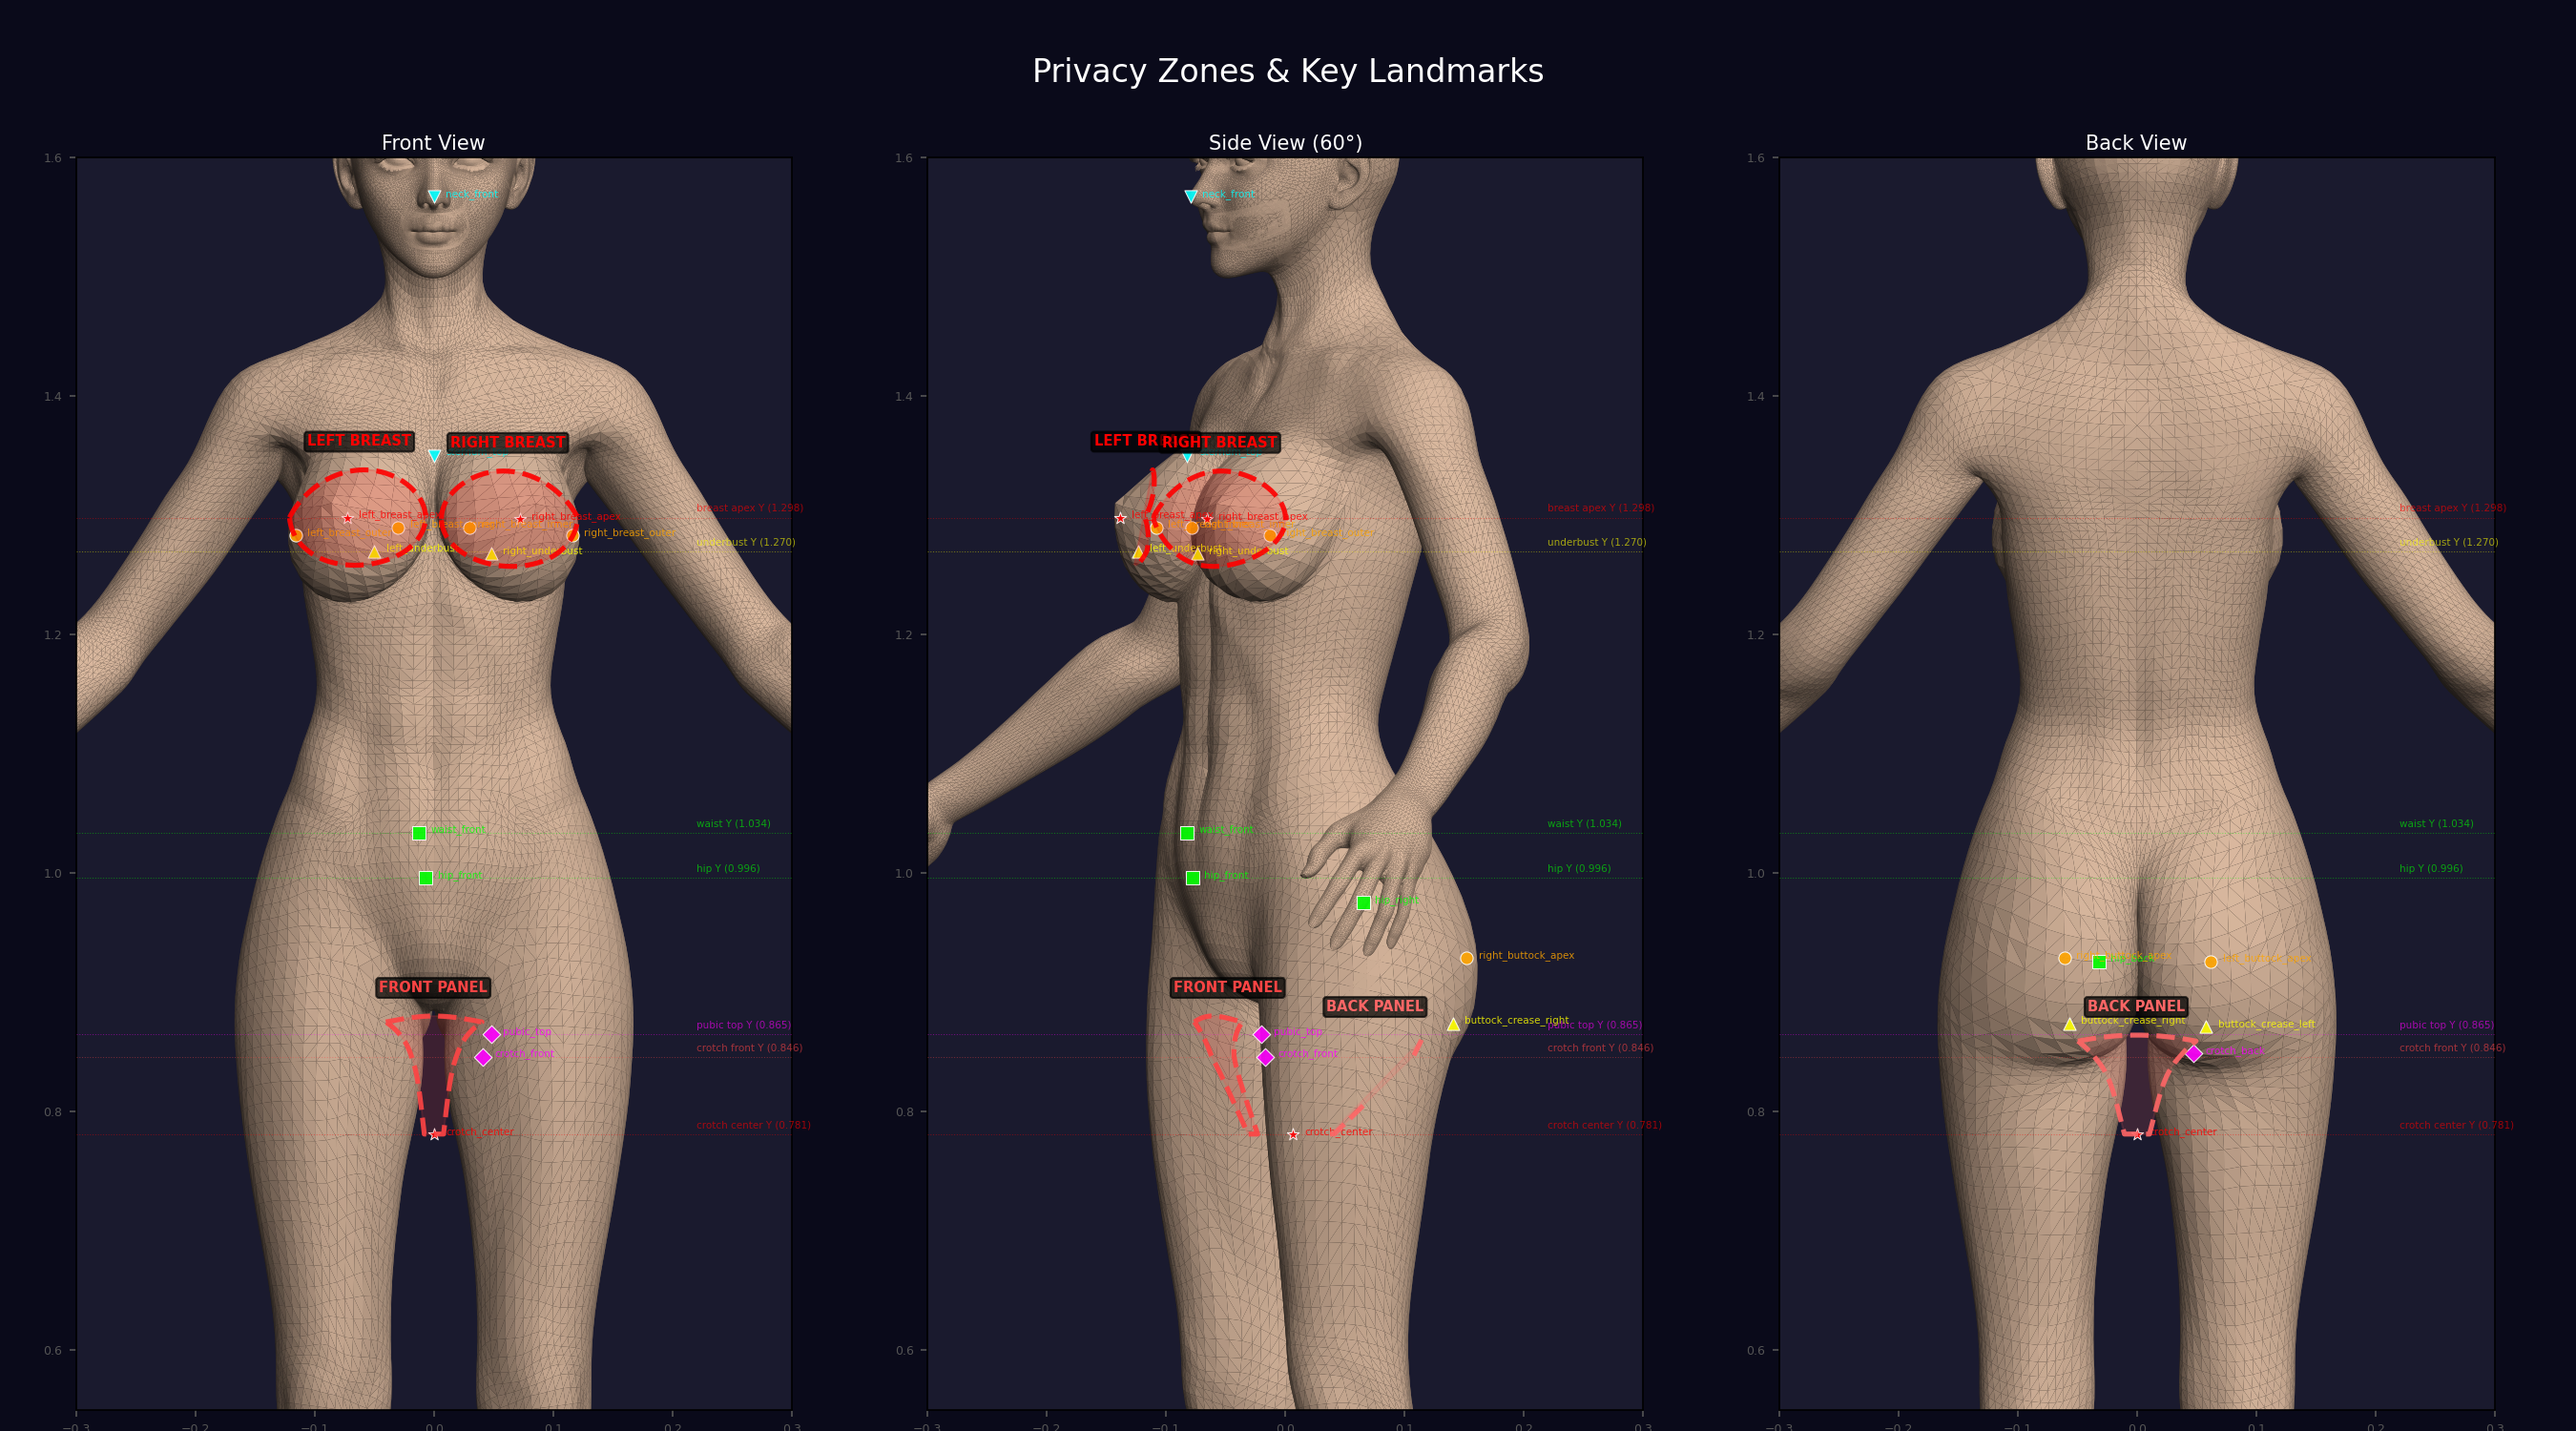
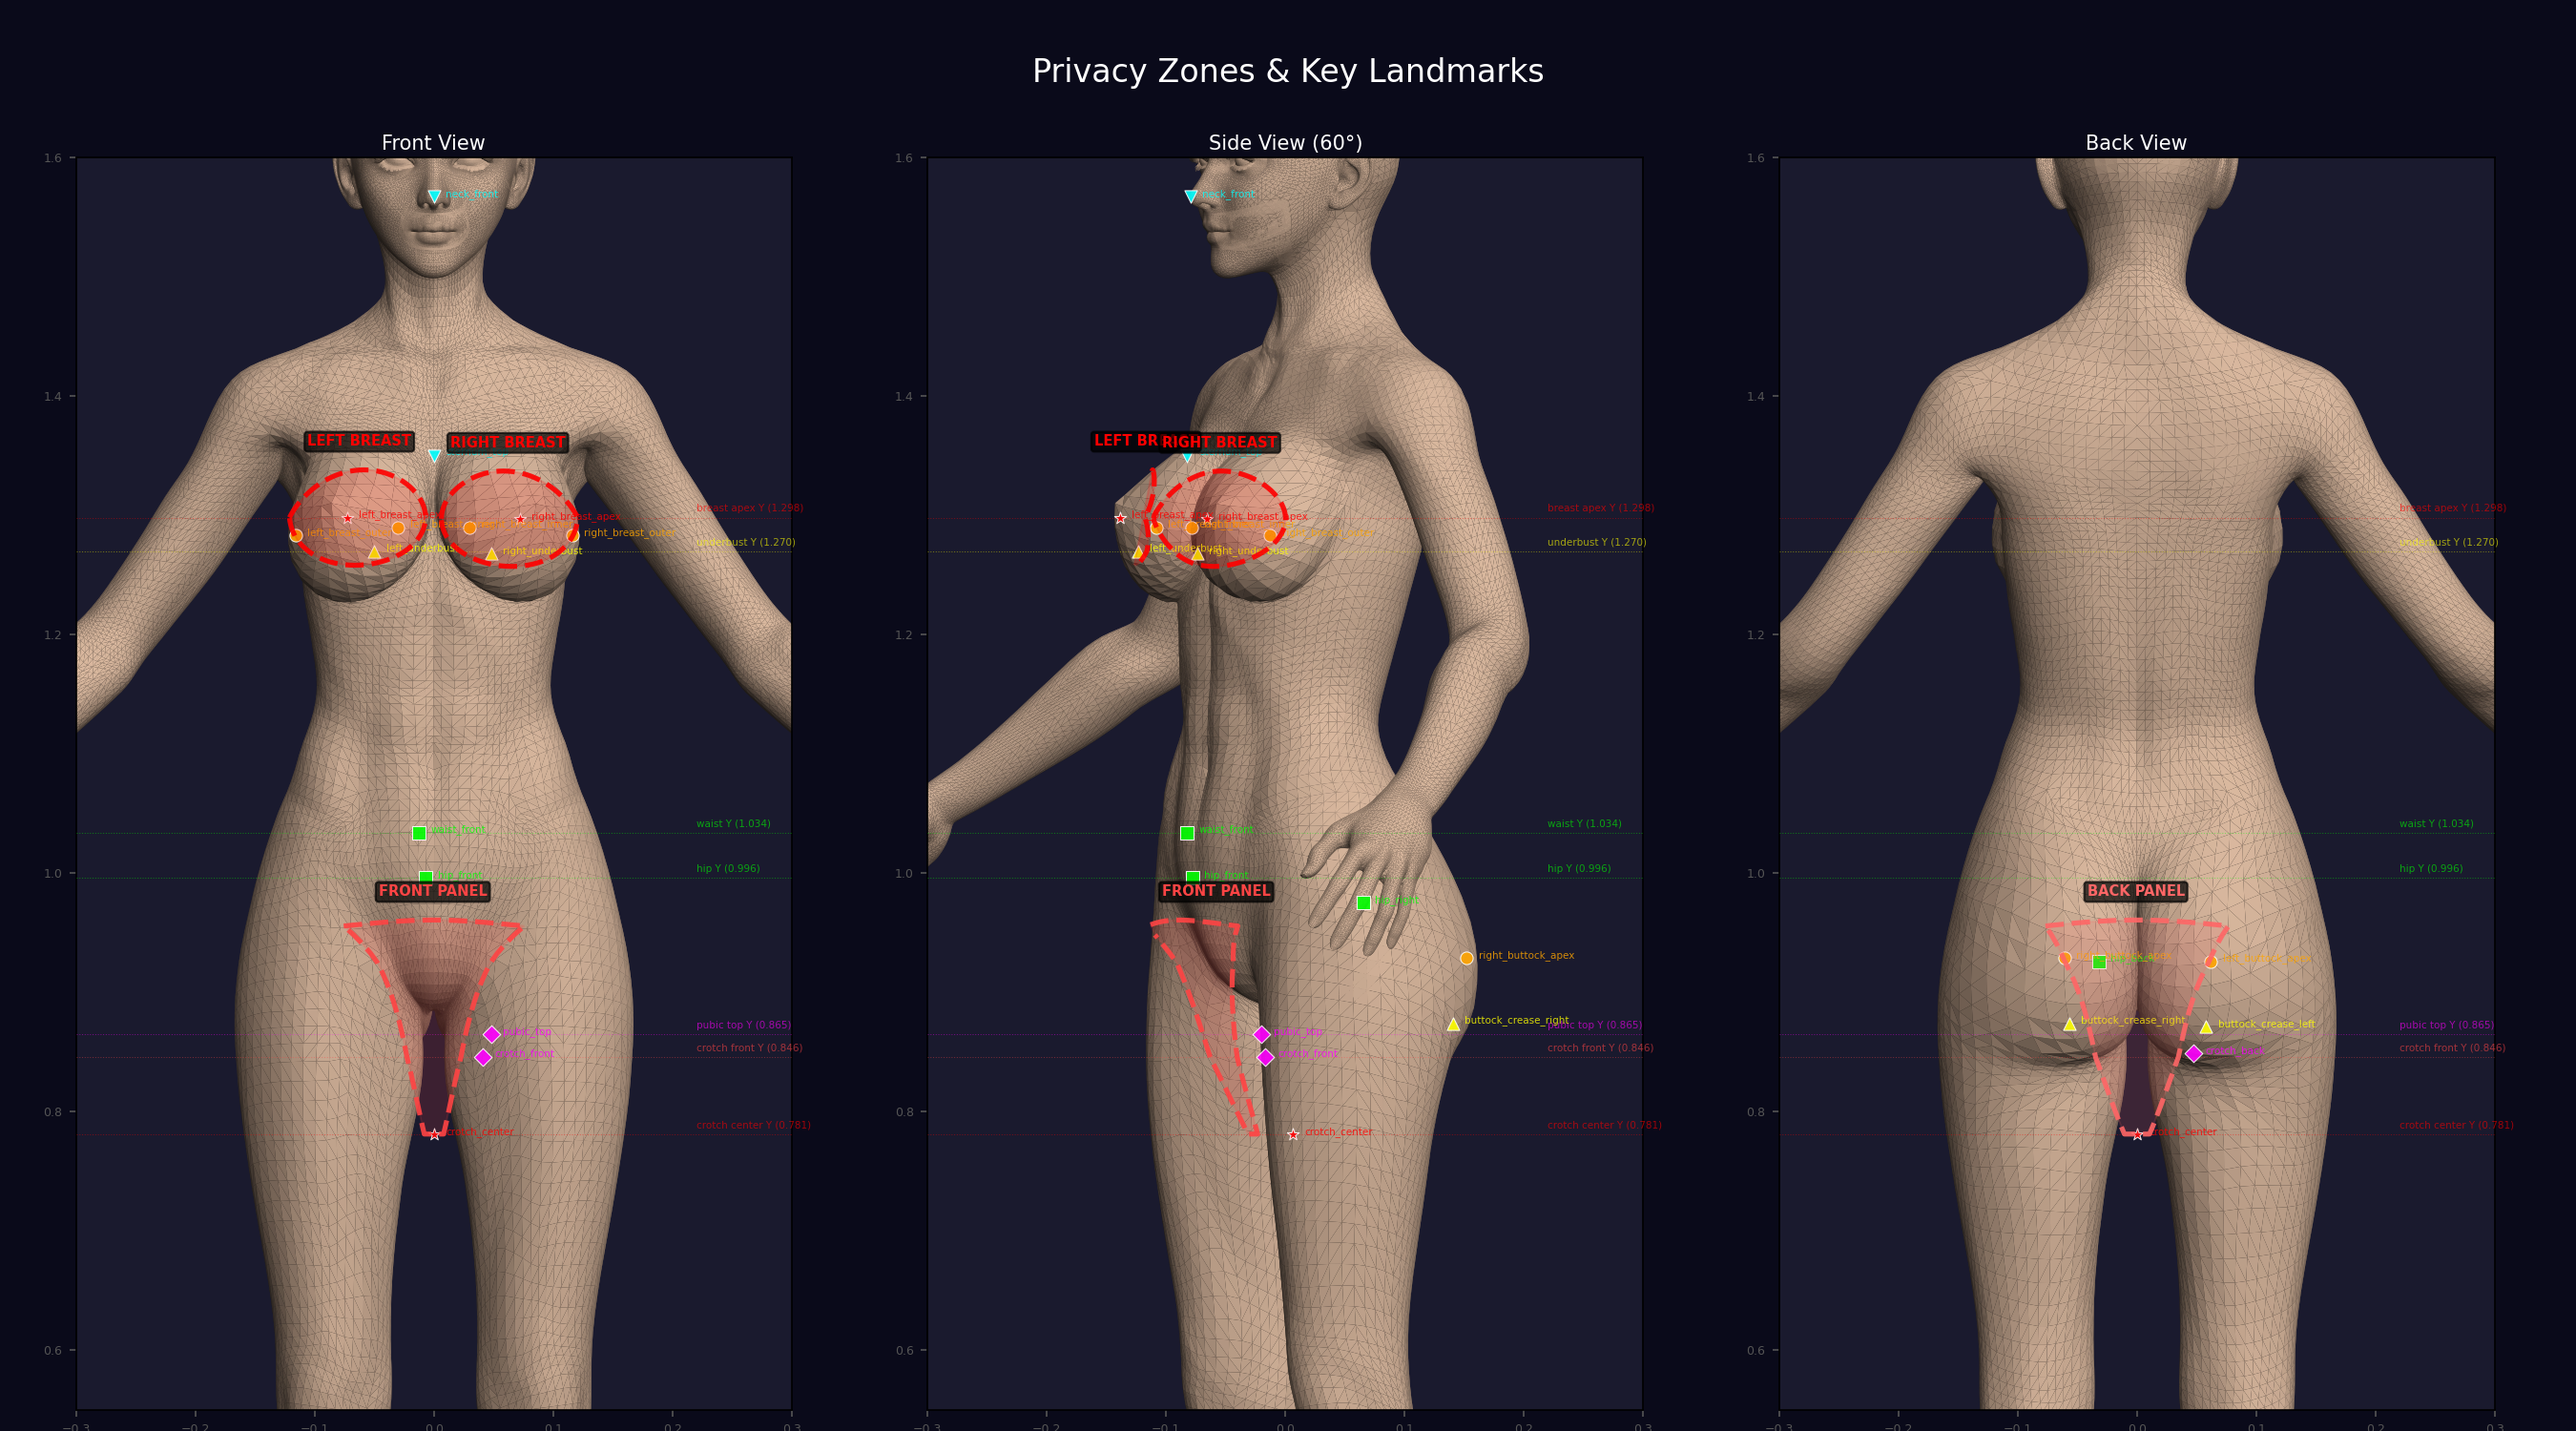
fix: move bikini bottom panels up to hip level (~8cm higher)
Top edge now at hip line (Y=0.956) instead of pubic_top (Y=0.875).
Total panel height ~17.5cm matching real bikini proportions.
Front and back panels both extend from hip level to crotch center.

https://claude.ai/code/session_01CGx4kTKQHwBokzENgDgNYu

diff --git a/debug_privacy_zones.py b/debug_privacy_zones.py
@@ -112,7 +112,10 @@ def make_bikini_front_panel(lm):
     """Create bikini front panel shape in (Y, theta) body surface coords.
 
     Shape: inverted triangle / shield with concave leg scoops.
-    The fabric sits flush on skin surface (no gap).
+    The fabric sits flush on skin surface.
+
+    Real bikini bottom: top edge at hip level (~navel area),
+    bottom at crotch. Total height ~18-20cm.
 
     Coordinate system:
       Y = height (meters), theta = angle around body
@@ -120,86 +123,80 @@ def make_bikini_front_panel(lm):
 
     Returns: list of (y, theta) tuples forming a closed curve.
     """
-    # Key Y heights from landmarks
-    pubic_top_y = lm["pubic_top"][1]      # 0.865
-    crotch_front_y = lm["crotch_front"][1]  # 0.846
+    # Key Y heights
+    hip_y = lm["hip_front"][1]              # 0.996
+    hip_side_y = (lm["hip_left"][1] + lm["hip_right"][1]) / 2  # 0.976
     crotch_center_y = lm["crotch_center"][1]  # 0.781
 
-    # Top of panel: ~1cm above pubic_top (bikini line)
-    top_y = pubic_top_y + 0.01  # 0.875
+    # Top of panel: at hip level (low-rise bikini sits ~2cm below hip bone)
+    top_y = hip_side_y - 0.02  # ~0.956
 
-    # Bottom of panel: at crotch_center (between legs, no gap)
+    # Bottom: at crotch center (flush, no gap)
     bottom_y = crotch_center_y  # 0.781
 
-    # Width at top: ~7cm each side = 14cm total (classic bikini)
-    # On the body surface at this height, 1cm ~ some angle in theta
-    # Body radius at front ~0.09m, so 7cm = 0.07m, angle ~ 0.07/0.09 ~ 0.78 rad
-    # But this is too wide. For a small bikini: ~5cm each side
-    body_r_top = 0.09  # approximate front body radius at pubic height
-    half_width_top = 0.05  # 5cm each side
-    theta_half_top = half_width_top / body_r_top  # ~0.56 rad (~32 degrees)
+    # Width at top (hip level): ~7cm each side = 14cm total
+    body_r_top = 0.10  # body radius at hip height
+    half_width_top = 0.07  # 7cm each side
+    theta_half_top = half_width_top / body_r_top  # ~0.7 rad (~40 degrees)
 
     # Width at bottom (crotch): ~1.5cm each side = 3cm total
     body_r_bottom = 0.06
     half_width_bottom = 0.015
     theta_half_bottom = half_width_bottom / body_r_bottom  # ~0.25 rad
 
-    # Build the outline clockwise from top-left:
-    # Top edge: slight upward bow at center
-    top_bow = 0.005  # 5mm upward bow at center
+    # Build outline clockwise from top-left
+    top_bow = 0.005
     n_top = 15
     outline = []
 
     # 1. Top edge: left to right with slight upward bow
     for i in range(n_top + 1):
-        frac = i / n_top  # 0 to 1, left to right
-        theta = theta_half_top * (1 - 2 * frac)  # +half to -half
-        bow = top_bow * np.sin(np.pi * frac)  # parabolic bow
-        y = top_y + bow
-        outline.append((y, theta))
+        frac = i / n_top
+        theta = theta_half_top * (1 - 2 * frac)
+        bow = top_bow * np.sin(np.pi * frac)
+        outline.append((top_y + bow, theta))
 
     # 2. Right side: concave leg scoop from top-right down to bottom-right
-    #    Bezier: top-right -> scoop inward -> bottom-right
-    p0 = (top_y, -theta_half_top)           # top-right corner
-    p3 = (bottom_y, -theta_half_bottom)      # bottom-right (crotch)
-    # Control points create concave scoop (pulled inward toward center)
-    mid_y = (top_y + bottom_y) / 2
-    scoop_depth = theta_half_top * 0.6  # how deep the leg scoop cuts in
-    p1 = (top_y - 0.02, -theta_half_top + scoop_depth)  # pull inward near top
-    p2 = (mid_y, -theta_half_bottom)  # narrow already at midpoint
-    outline.extend(cubic_bezier(p0, p1, p2, p3, n=20)[1:])  # skip first (duplicate)
+    #    The scoop is deepest around upper-thigh / pubic area
+    p0 = (top_y, -theta_half_top)
+    p3 = (bottom_y, -theta_half_bottom)
+    # Leg scoop: the side curves inward aggressively
+    scoop_y = top_y - (top_y - bottom_y) * 0.35  # scoop deepest at ~35% down
+    scoop_depth = theta_half_top * 0.55
+    p1 = (scoop_y, -theta_half_top + scoop_depth)  # pull inward
+    p2 = (bottom_y + 0.03, -theta_half_bottom * 1.5)  # approach crotch width
+    outline.extend(cubic_bezier(p0, p1, p2, p3, n=25)[1:])
 
-    # 3. Bottom edge: right to left across crotch (flush, no gap)
+    # 3. Bottom edge: across crotch (flush)
     n_bottom = 5
     for i in range(n_bottom + 1):
         frac = i / n_bottom
         theta = -theta_half_bottom + 2 * theta_half_bottom * frac
         outline.append((bottom_y, theta))
 
-    # 4. Left side: concave leg scoop from bottom-left up to top-left (mirror)
-    p0 = (bottom_y, theta_half_bottom)      # bottom-left
-    p3 = (top_y, theta_half_top)            # top-left corner
-    p1 = (mid_y, theta_half_bottom)
-    p2 = (top_y - 0.02, theta_half_top - scoop_depth)
-    outline.extend(cubic_bezier(p0, p1, p2, p3, n=20)[1:])
+    # 4. Left side: mirror of right
+    p0 = (bottom_y, theta_half_bottom)
+    p3 = (top_y, theta_half_top)
+    p1 = (bottom_y + 0.03, theta_half_bottom * 1.5)
+    p2 = (scoop_y, theta_half_top - scoop_depth)
+    outline.extend(cubic_bezier(p0, p1, p2, p3, n=25)[1:])
 
     return outline
 
 
 def make_bikini_back_panel(lm):
-    """Create bikini back panel shape (thong/minimal back piece).
+    """Create bikini back panel shape.
 
-    Similar inverted triangle but centered at theta=pi (back).
+    Similar inverted triangle at theta=pi (back), from hip level to crotch.
     """
-    buttock_y = (lm["buttock_crease_left"][1] + lm["buttock_crease_right"][1]) / 2
-    crotch_back_y = lm["crotch_back"][1]  # 0.849
-    crotch_center_y = lm["crotch_center"][1]  # 0.781
+    hip_side_y = (lm["hip_left"][1] + lm["hip_right"][1]) / 2
+    crotch_center_y = lm["crotch_center"][1]
 
-    top_y = crotch_back_y + 0.01  # 0.859
+    top_y = hip_side_y - 0.02  # same height as front
     bottom_y = crotch_center_y
 
-    body_r_top = 0.10
-    half_width_top = 0.045
+    body_r_top = 0.12
+    half_width_top = 0.065  # slightly narrower than front
     theta_half_top = half_width_top / body_r_top
 
     body_r_bottom = 0.06
@@ -210,7 +207,7 @@ def make_bikini_back_panel(lm):
     n_top = 15
     outline = []
 
-    # Top edge (at back: theta around pi)
+    # Top edge at back
     for i in range(n_top + 1):
         frac = i / n_top
         theta = np.pi + theta_half_top * (1 - 2 * frac)
@@ -220,11 +217,11 @@ def make_bikini_back_panel(lm):
     # Right side scoop
     p0 = (top_y, np.pi - theta_half_top)
     p3 = (bottom_y, np.pi - theta_half_bottom)
-    mid_y = (top_y + bottom_y) / 2
-    scoop_depth = theta_half_top * 0.5
-    p1 = (top_y - 0.02, np.pi - theta_half_top + scoop_depth)
-    p2 = (mid_y, np.pi - theta_half_bottom)
-    outline.extend(cubic_bezier(p0, p1, p2, p3, n=20)[1:])
+    scoop_y = top_y - (top_y - bottom_y) * 0.35
+    scoop_depth = theta_half_top * 0.55
+    p1 = (scoop_y, np.pi - theta_half_top + scoop_depth)
+    p2 = (bottom_y + 0.03, np.pi - theta_half_bottom * 1.5)
+    outline.extend(cubic_bezier(p0, p1, p2, p3, n=25)[1:])
 
     # Bottom edge
     for i in range(6):
@@ -235,9 +232,9 @@ def make_bikini_back_panel(lm):
     # Left side scoop (mirror)
     p0 = (bottom_y, np.pi + theta_half_bottom)
     p3 = (top_y, np.pi + theta_half_top)
-    p1 = (mid_y, np.pi + theta_half_bottom)
-    p2 = (top_y - 0.02, np.pi + theta_half_top - scoop_depth)
-    outline.extend(cubic_bezier(p0, p1, p2, p3, n=20)[1:])
+    p1 = (bottom_y + 0.03, np.pi + theta_half_bottom * 1.5)
+    p2 = (scoop_y, np.pi + theta_half_top - scoop_depth)
+    outline.extend(cubic_bezier(p0, p1, p2, p3, n=25)[1:])
 
     return outline
 
